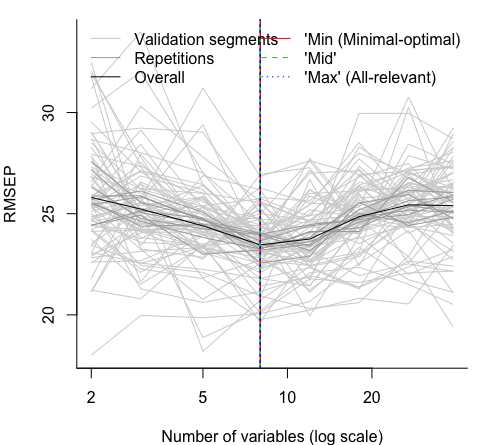
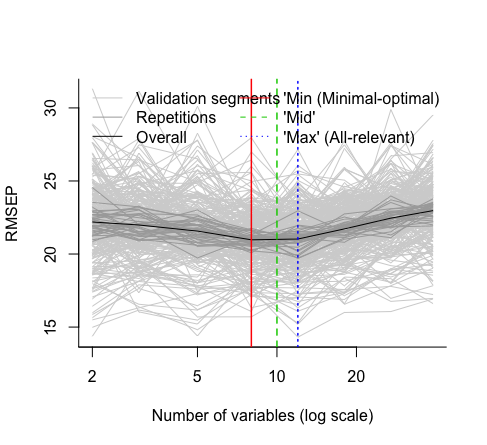
Correct input table + version of the plot with 100 permutations

diff --git a/F2_Random_Forest/README.md b/F2_Random_Forest/README.md
@@ -1,9 +1,23 @@
 # F2 Random Forest analysis
 
-![alt text](plot1_val.png)
+## Data used
 
-![alt text](plot2_vip.png)
+* Metabolites: 
+  - 39 volatiles
+  - 30 F2 lines (including Elite, PI127826, F1)
+  - [link to data](./volatiles/20180625_F2metabolite_table.tsv)
+* Whitefly: n = 36 F2 lines (including Elite, PI127826, F1)
+* Common table: n = 27 F2 lines
+ 
+## Results
 
-![alt text](plot3_pred_vs_original.png)
+<img src="plot1_val.png" width="50%">
 
-![alt text](plot4_perm.png)
+<img src="plot2_vip.png" width="50%">
+
+<img src="plot3_pred_vs_original.png" width="50%">
+
+<img src="plot4_perm.png" width="50%">
+
+## Script used
+[`random_forest_analysis_muvr.R`](./random_forest_analysis_muvr.R)
